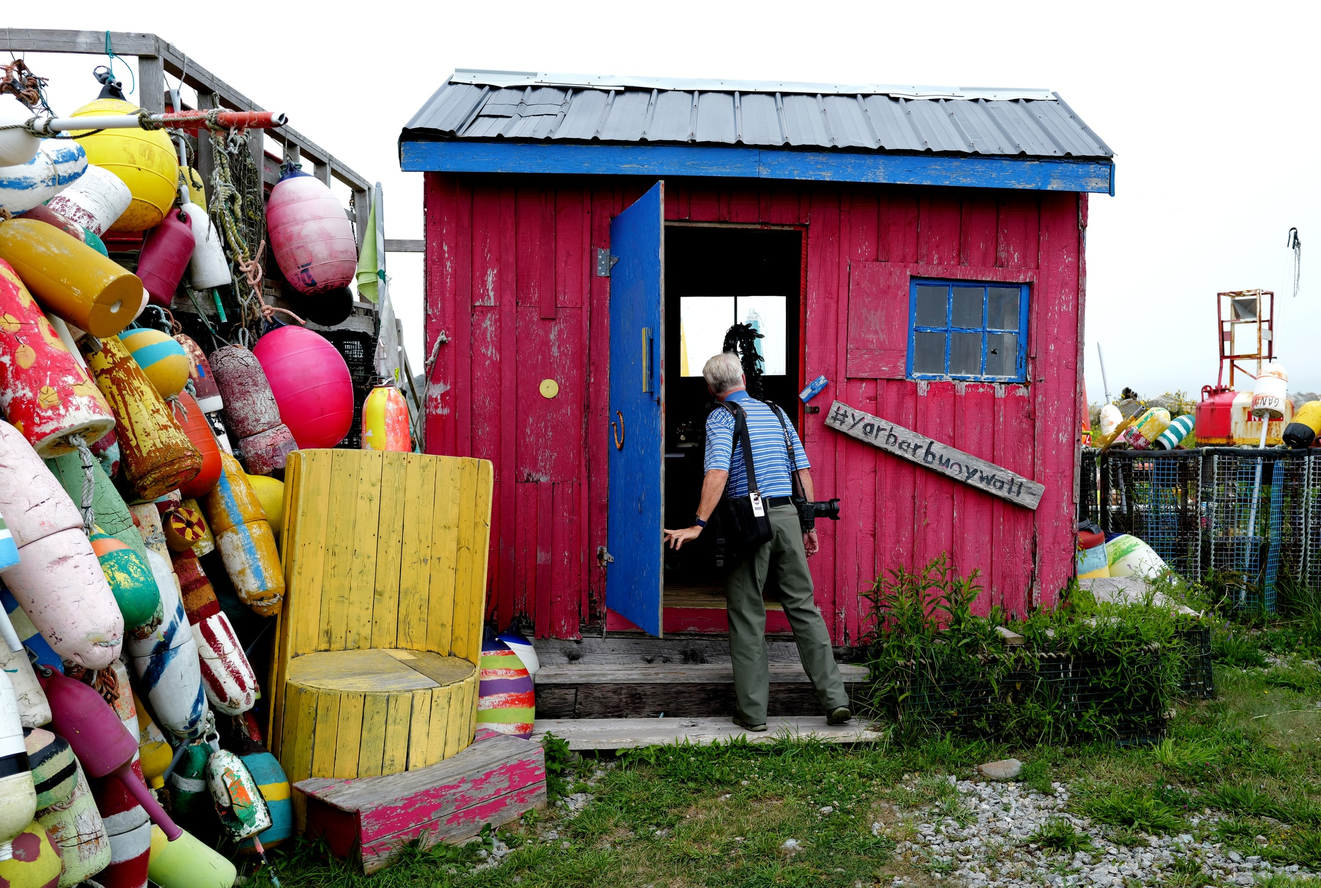
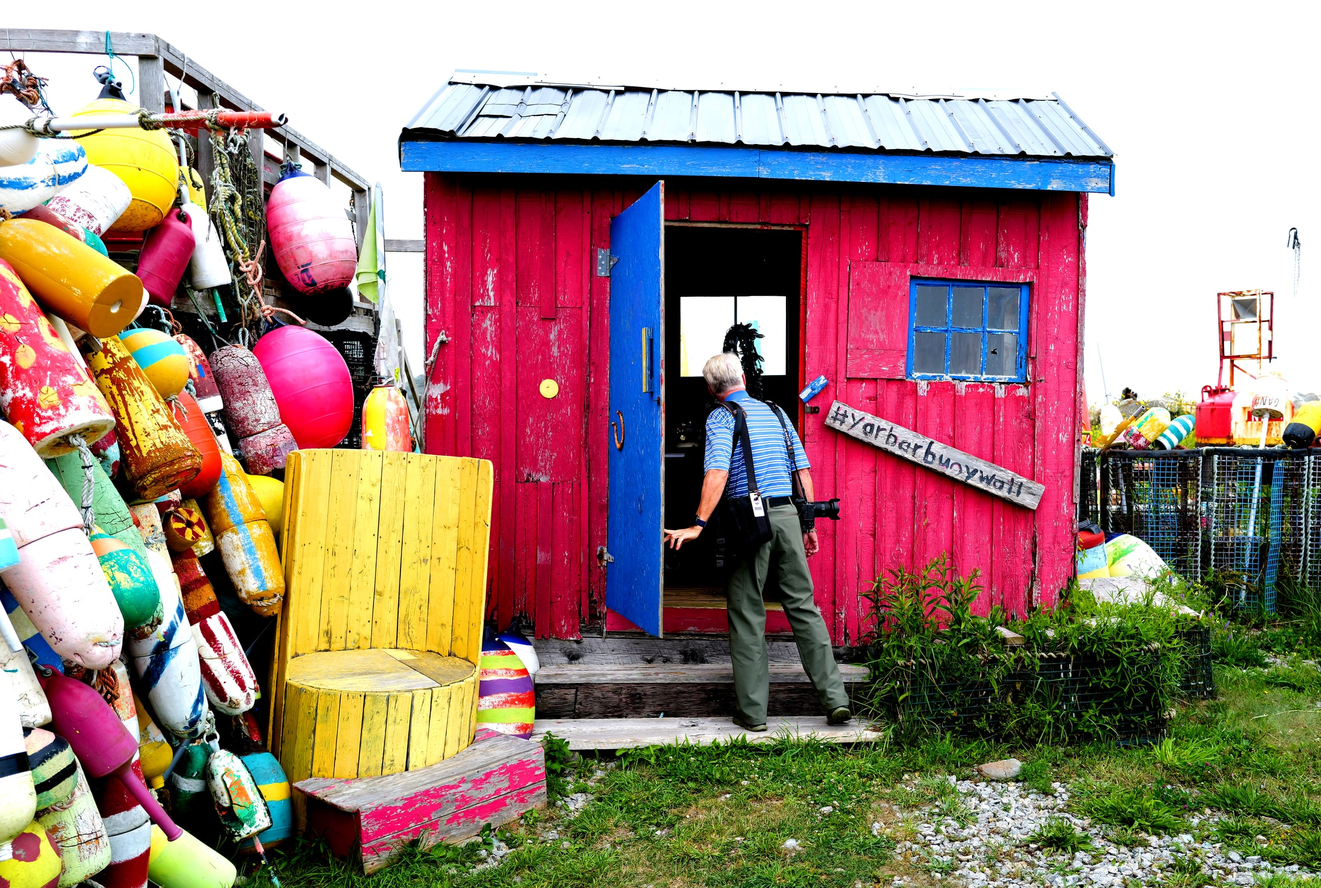
Sync: retoned photo in Nova Scotia (nova-scotia-26)

diff --git a/app/collections/janet-buys-a-car/page.tsx b/app/collections/janet-buys-a-car/page.tsx
@@ -212,7 +212,7 @@ const photographData: PhotographDataEntry[] = [
   }
 ];
 
-const displayOrder: number[] = [2, 3, 1, 5, 6, 7, 8, 9, 10, 12, 11, 13, 4];
+const displayOrder: number[] = [7, 2, 3, 6, 9, 8, 1, 11, 10, 5, 13, 12, 4];
 
 const photographs = displayOrder.map((number) => ({
   ...photographData[number - 1],
